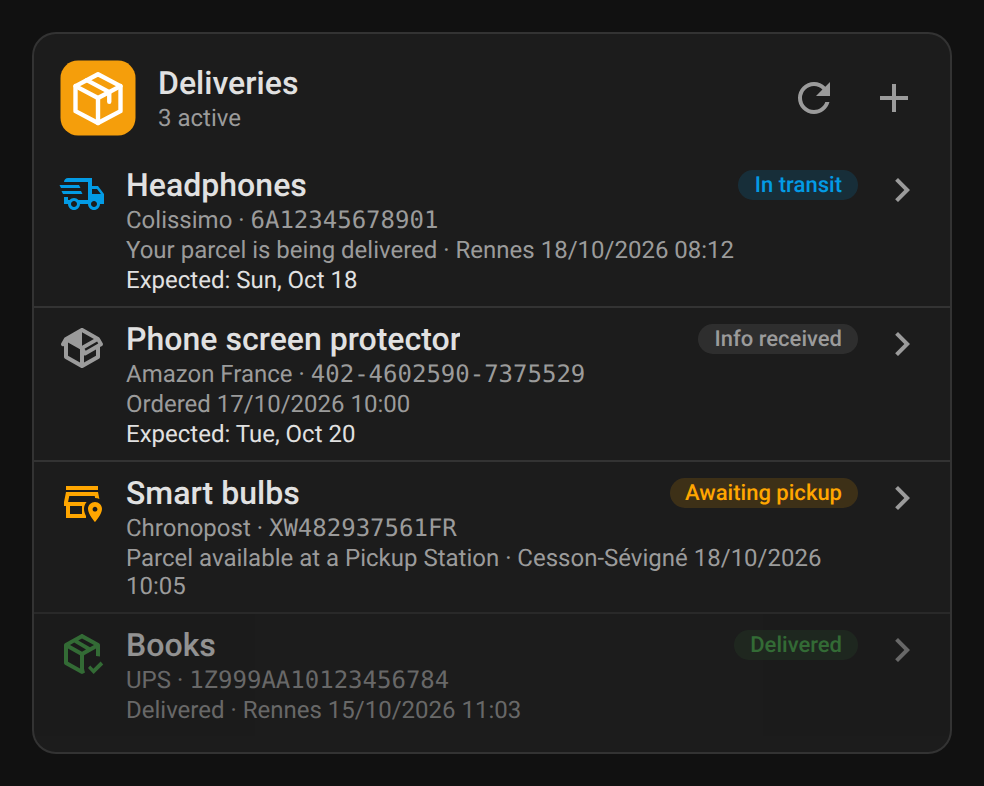
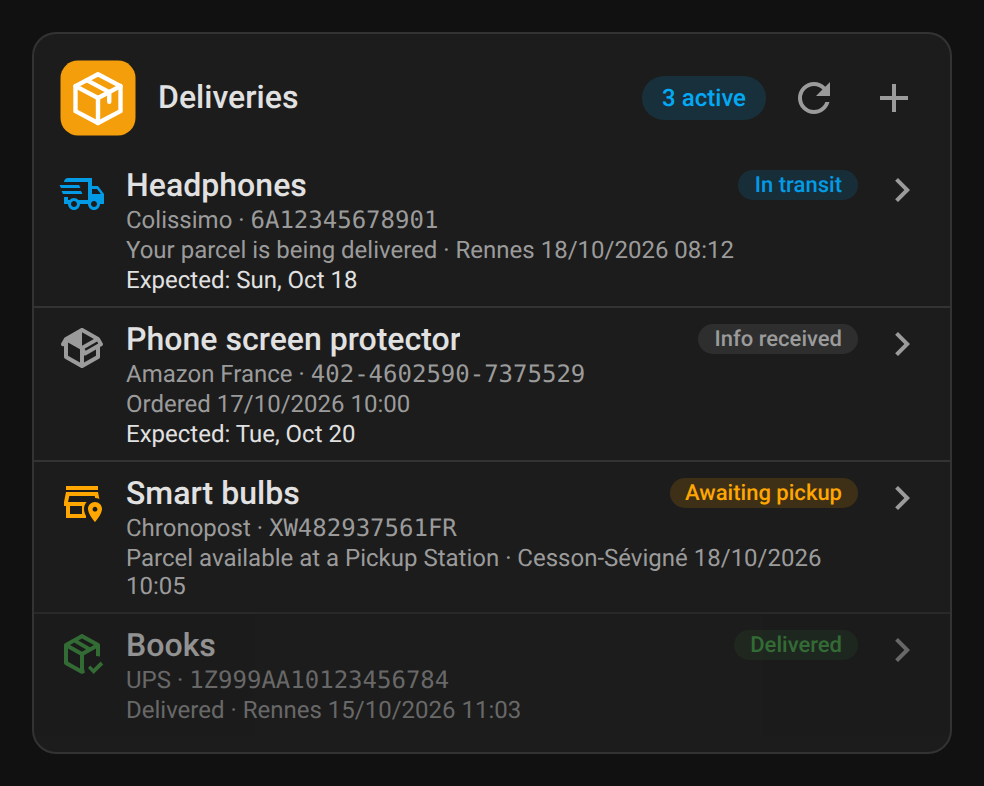
Review pass 2 fixes + release 0.10.0 (#21)
Review pass 2 fixes for ha-parcel, plus release 0.10.0 (minor: new card
`language` option).

## Fixed

### 🔴 Bugs
- **`parcel.refresh` reported success on a failed update**:
`async_refresh()` never raises, so a 429, a timeout or a refused key all
looked like a success. The service now raises `HomeAssistantError` when
`last_update_success` is false, so the card's error line now appears.
Test added: `test_refresh_service_reports_failure` (429), which fails
without the fix.
- **Card when the sensor is unavailable**: when `state` is `unavailable`
or `unknown`, the card now shows a dedicated message (new `unavailable`
i18n key in en/fr/de/es) with no count, instead of "unavailable active"
and "No deliveries to show". Automatic detection falls back to
`hass.entities` (`platform: parcel`), so a card with no `entity` set no
longer says "Parcel sensor not found" while the sensor is unavailable.
Optional chaining was added on `st.attributes?.config_entry_id`. Node
tests added.
- **`setConfig` reset `_lastState`**: `setConfig` now reads the sensor
right away when `hass` is already set, so the visual editor no longer
shows "not found". Node test added.

### 🟠 CI
- Screenshots: `pip install playwright==1.64.1` is pinned (README too).
The Chromium download now runs in its own step with `timeout 180`, 3
retries and an explicit failure.

### 🟡 Consistency
- Card `language` option (en/fr/de/es, "Auto" by default). It is in the
[…]

Changed region(s): [[0.1524, 0.0916, 0.3049, 0.1832], [0.6402, 0.0916, 0.7927, 0.1527]]

diff --git a/custom_components/parcel/frontend/parcel-card.js b/custom_components/parcel/frontend/parcel-card.js
@@ -1,4 +1,4 @@
-var PARCEL_CARD_VERSION = '0.9.0';
+var PARCEL_CARD_VERSION = '0.10.0';
 
 // ── Integration icon (same drawing as brand/icon.png) ────────────────────────
[1 lines of base64/hex data omitted]
@@ -9,6 +9,7 @@ var ParcelI18n = {
     default_title: 'Colis',
     empty: 'Aucun colis à afficher',
     no_entity: 'Capteur Parcel introuvable. Ajoutez l\'intégration Parcel ou renseignez « entity ».',
+    unavailable: 'Parcel est indisponible. Les colis s\'afficheront après la prochaine mise à jour réussie.',
     in_progress: 'en cours',
     expected: 'Prévu :',
     add: 'Ajouter un colis',
@@ -36,6 +37,8 @@ var ParcelI18n = {
       show_add: 'Afficher le bouton d\'ajout',
       show_refresh: 'Afficher le bouton Actualiser',
       max_events: 'Événements affichés quand un colis est déplié',
+      language: 'Langue',
+      lang_auto: 'Automatique',
     },
     status: {
       delivered: 'Livré',
@@ -54,6 +57,7 @@ var ParcelI18n = {
     default_title: 'Deliveries',
     empty: 'No deliveries to show',
     no_entity: 'Parcel sensor not found. Add the Parcel integration or set "entity".',
+    unavailable: 'Parcel is unavailable. The deliveries will show up after the next successful update.',
     in_progress: 'active',
     expected: 'Expected:',
     add: 'Add a delivery',
@@ -81,6 +85,8 @@ var ParcelI18n = {
       show_add: 'Show add button',
       show_refresh: 'Show refresh button',
       max_events: 'Events shown when a parcel is expanded',
+      language: 'Language',
+      lang_auto: 'Auto',
     },
     status: {
       delivered: 'Delivered',
@@ -99,6 +105,7 @@ var ParcelI18n = {
     default_title: 'Sendungen',
     empty: 'Keine Sendungen vorhanden',
     no_entity: 'Parcel-Sensor nicht gefunden. Füge die Parcel-Integration hinzu oder setze „entity“.',
+    unavailable: 'Parcel ist nicht verfügbar. Die Sendungen erscheinen nach der nächsten erfolgreichen Aktualisierung.',
     in_progress: 'aktiv',
     expected: 'Erwartet:',
     add: 'Sendung hinzufügen',
@@ -115,7 +122,7 @@ var ParcelI18n = {
     added: 'Sendung hinzugefügt. Sie erscheint nach der nächsten Aktualisierung von Parcel.',
     unknown_carrier: 'Wähle einen Versanddienstleister aus der Liste.',
     required: 'Sendungsnummer, Versanddienstleister und Beschreibung sind erforderlich.',
-    limit: 'Parcel erlaubt 20 Hinzufügungen pro Tag.',
+    limit: 'Parcel erlaubt maximal 20 neue Sendungen pro Tag.',
     no_events: 'Noch keine Ereignisse',
     copy: 'Sendungsnummer kopieren',
     editor: {
@@ -126,6 +133,8 @@ var ParcelI18n = {
       show_add: 'Schaltfläche „Hinzufügen“ anzeigen',
       show_refresh: 'Schaltfläche „Aktualisieren“ anzeigen',
       max_events: 'Angezeigte Ereignisse bei aufgeklappter Sendung',
+      language: 'Sprache',
+      lang_auto: 'Automatisch',
     },
     status: {
       delivered: 'Zugestellt',
@@ -134,7 +143,7 @@ var ParcelI18n = {
       awaiting_pickup: 'Zur Abholung bereit',
       out_for_delivery: 'In Zustellung',
       not_found: 'Nicht gefunden',
-      failed_attempt: 'Zustellversuch fehlgeschlagen',
+      failed_attempt: 'Fehlversuch',
       exception: 'Problem',
       info_received: 'Angekündigt',
       unknown: 'Unbekannt',
@@ -144,6 +153,7 @@ var ParcelI18n = {
     default_title: 'Envíos',
     empty: 'No hay envíos que mostrar',
     no_entity: 'No se encuentra el sensor de Parcel. Añade la integración Parcel o indica «entity».',
+    unavailable: 'Parcel no está disponible. Los envíos aparecerán tras la próxima actualización correcta.',
     in_progress: 'en curso',
     expected: 'Previsto:',
     add: 'Añadir un envío',
@@ -171,6 +181,8 @@ var ParcelI18n = {
       show_add: 'Mostrar el botón Añadir',
       show_refresh: 'Mostrar el botón Actualizar',
       max_events: 'Eventos mostrados al desplegar un envío',
+      language: 'Idioma',
+      lang_auto: 'Automático',
     },
     status: {
       delivered: 'Entregado',
@@ -212,8 +224,9 @@ function parcelDate(s) {
   return /\d/.test(String(s || '')) ? String(s) : '';
 }
 
-function parcelLang(hass) {
-  var lang = ((hass && (hass.locale?.language || hass.language)) || navigator.language || 'en').slice(0, 2);
+// The card's `language` option wins over the Home Assistant language.
+function parcelLang(hass, config) {
+  var lang = (config?.language || (hass && (hass.locale?.language || hass.language)) || navigator.language || 'en').slice(0, 2);
   return ParcelI18n[lang] ? lang : 'en';
 }
 
@@ -237,13 +250,22 @@ class ParcelCard extends HTMLElement {
         return ids[i];
       }
     }
+    // An unavailable sensor (failed update) has no attributes: fall back to the entity registry.
+    var entities = hass.entities || {};
+    var reg = Object.keys(entities);
+    for (var j = 0; j < reg.length; j++) {
+      if (reg[j].indexOf('sensor.') === 0 && entities[reg[j]].platform === 'parcel' && hass.states[reg[j]]) return reg[j];
+    }
     return null;
   }
 
   setConfig(config) {
     this._config = Object.assign({}, PARCEL_DEFAULTS, config || {});
     this._expanded = this._expanded || {};
-    this._lastState = null;
+    // Read the sensor now: with hass already set (visual editor, dashboard change), waiting for the
+    // next hass update would show "sensor not found" meanwhile.
+    var entityId = this._hass ? this._entityId() : null;
+    this._lastState = entityId ? this._hass.states[entityId] || null : null;
     if (this._hass) this._render();
   }
 
@@ -302,7 +324,7 @@ class ParcelCard extends HTMLElement {
   }
 
   _t() {
-    return ParcelI18n[parcelLang(this._hass)];
+    return ParcelI18n[parcelLang(this._hass, this._config)];
   }
 
   _ensureShell() {
@@ -329,7 +351,10 @@ class ParcelCard extends HTMLElement {
       return;
     }
 
-    var deliveries = (st.attributes.deliveries || []).slice();
+    // A failed update (rate limit, Parcel down) leaves the sensor unavailable, without its attributes:
+    // say so instead of showing "unavailable active" and an empty list.
+    var unavailable = st.state === 'unavailable' || st.state === 'unknown';
+    var deliveries = (st.attributes?.deliveries || []).slice();
     if (!this._config.show_delivered) {
       deliveries = deliveries.filter((d) => d.status_code !== 0);
     }
@@ -344,11 +369,12 @@ class ParcelCard extends HTMLElement {
 
     header.innerHTML =
       '<div class="title">' + this._iconHtml() + '<div class="titles"><div class="name">' + parcelEsc(title) + '</div>' +
-      '<div class="sub">' + parcelEsc(st.state) + ' ' + parcelEsc(t.in_progress) + '</div>' +
       // The refresh error survives re-renders (hass updates) until the next refresh attempt.
       (this._refreshError ? '<div class="sub error">' + parcelEsc(this._refreshError) + '</div>' : '') +
       '</div></div>' +
       '<div class="buttons">' +
+      // Status pill on the right of the header (card convention), not a subtitle under the title.
+      (unavailable ? '' : `<span class="status">${parcelEsc(st.state)} ${parcelEsc(t.in_progress)}</span>`) +
       (this._config.show_refresh
         ? `<ha-icon-button class="refresh-btn${this._refreshing ? ' spinning' : ''}" label="${parcelEsc(t.refresh)}" title="${parcelEsc(t.refresh)}"><ha-icon icon="mdi:refresh"></ha-icon></ha-icon-button>`
         : '') +
@@ -361,6 +387,10 @@ class ParcelCard extends HTMLElement {
     var refreshBtn = header.querySelector('.refresh-btn');
     if (refreshBtn) refreshBtn.addEventListener('click', this._refresh.bind(this));
 
+    if (unavailable) {
+      list.innerHTML = `<div class="empty">${parcelEsc(t.unavailable)}</div>`;
+      return;
+    }
     if (!deliveries.length) {
       list.innerHTML = `<div class="empty">${parcelEsc(t.empty)}</div>`;
       return;
@@ -413,7 +443,7 @@ class ParcelCard extends HTMLElement {
   }
 
   _formatExpected(d) {
-    var locale = (this._hass.locale?.language) || undefined;
+    var locale = this._config?.language || this._hass.locale?.language || undefined;
     var opts = { weekday: 'short', day: 'numeric', month: 'short' };
     var fmt = (ts, raw) => {
       if (ts) return new Date(ts * 1000).toLocaleString(locale, Object.assign({ hour: '2-digit', minute: '2-digit' }, opts));
@@ -446,7 +476,7 @@ class ParcelCard extends HTMLElement {
     if (this._refreshing) return;
     var data = {};
     var st = this._lastState;
-    if (st?.attributes.config_entry_id) data.config_entry_id = st.attributes.config_entry_id;
+    if (st?.attributes?.config_entry_id) data.config_entry_id = st.attributes.config_entry_id;
     this._refreshing = true;
     this._refreshError = null;
     this._render();
@@ -498,7 +528,7 @@ class ParcelCard extends HTMLElement {
     this._loadingCarriers = true;
     var st = this._lastState;
     var msg = { type: 'parcel/carriers' };
-    if (st?.attributes.config_entry_id) msg.config_entry_id = st.attributes.config_entry_id;
+    if (st?.attributes?.config_entry_id) msg.config_entry_id = st.attributes.config_entry_id;
     this._hass.callWS(msg).then((res) => {
       var carriers = res.carriers || {};
       // An empty list means the backend couldn't load the carriers yet: don't cache it, the next opening asks again.
@@ -551,7 +581,7 @@ class ParcelCard extends HTMLElement {
 
     var data = { tracking_number: tracking, carrier_code: code, description: description, send_push_confirmation: push };
     var st = this._lastState;
-    if (st?.attributes.config_entry_id) data.config_entry_id = st.attributes.config_entry_id;
+    if (st?.attributes?.config_entry_id) data.config_entry_id = st.attributes.config_entry_id;
 
     btn.disabled = true;
     btn.textContent = t.adding;
@@ -582,7 +612,9 @@ class ParcelCard extends HTMLElement {
       '.name { font-size: 16px; font-weight: 500; line-height: 1.25; color: var(--primary-text-color); white-space: nowrap; overflow: hidden; text-overflow: ellipsis; }',
       '.sub { font-size: 12px; color: var(--secondary-text-color); white-space: nowrap; overflow: hidden; text-overflow: ellipsis; }',
       '.sub.error { color: var(--error-color, #db4437); }',
-      '.buttons { display: flex; align-items: center; }',
+      '.buttons { display: flex; align-items: center; flex: none; }',
+      '.status { font-size: 12px; font-weight: 500; line-height: 1; white-space: nowrap; border-radius: 12px; padding: 5px 10px; margin-right: 4px;' +
+        ' color: var(--primary-color); background: color-mix(in srgb, var(--primary-color) 15%, transparent); }',
       '.refresh-btn.spinning ha-icon { animation: parcel-spin 1s linear infinite; }',
       '@keyframes parcel-spin { from { transform: rotate(0deg); } to { transform: rotate(360deg); } }',
       '.empty { padding: 12px 16px; color: var(--secondary-text-color); }',
@@ -625,21 +657,38 @@ class ParcelCard extends HTMLElement {
 }
 
 // ── parcel-card-editor ────────────────────────────────────────────────────────
-var PARCEL_EDITOR_SCHEMA = [
-  { name: 'entity', selector: { entity: { domain: 'sensor', integration: 'parcel' } } },
-  { name: 'title', selector: { text: {} } },
-  {
-    type: 'grid',
-    name: '',
-    schema: [
-      { name: 'show_icon', selector: { boolean: {} } },
-      { name: 'show_delivered', selector: { boolean: {} } },
-      { name: 'show_refresh', selector: { boolean: {} } },
-      { name: 'show_add', selector: { boolean: {} } },
-    ],
-  },
-  { name: 'max_events', selector: { number: { min: 1, max: 20, mode: 'box' } } },
-];
+function parcelEditorSchema(t) {
+  return [
+    { name: 'entity', selector: { entity: { domain: 'sensor', integration: 'parcel' } } },
+    { name: 'title', selector: { text: {} } },
+    {
+      type: 'grid',
+      name: '',
+      schema: [
+        { name: 'show_icon', selector: { boolean: {} } },
+        { name: 'show_delivered', selector: { boolean: {} } },
+        { name: 'show_refresh', selector: { boolean: {} } },
+        { name: 'show_add', selector: { boolean: {} } },
+      ],
+    },
+    { name: 'max_events', selector: { number: { min: 1, max: 20, mode: 'box' } } },
+    {
+      name: 'language',
+      selector: {
+        select: {
+          mode: 'dropdown',
+          options: [
+            { value: '', label: t.lang_auto },
+            { value: 'en', label: 'English' },
+            { value: 'fr', label: 'Français' },
+            { value: 'de', label: 'Deutsch' },
+            { value: 'es', label: 'Español' },
+          ],
+        },
+      },
+    },
+  ];
+}
 
 class ParcelCardEditor extends HTMLElement {
   setConfig(config) {
@@ -656,12 +705,17 @@ class ParcelCardEditor extends HTMLElement {
   _render() {
     if (!this._hass || !this._config) return;
     if (!this._form) {
-      var t = ParcelI18n[parcelLang(this._hass)].editor;
       this._form = document.createElement('ha-form');
-      this._form.schema = PARCEL_EDITOR_SCHEMA;
-      this._form.computeLabel = (field) => t[field.name] || field.name;
       this._form.addEventListener('value-changed', this._valueChanged.bind(this));
       this.appendChild(this._form);
+    }
+    // The labels follow the language picked in the editor: rebuilt only when it changes.
+    var lang = parcelLang(this._hass, this._config);
+    if (lang !== this._lang) {
+      this._lang = lang;
+      var t = ParcelI18n[lang].editor;
+      this._form.schema = parcelEditorSchema(t);
+      this._form.computeLabel = (field) => t[field.name] || field.name;
     }
     this._form.hass = this._hass;
     // Show the defaults as set, so the toggles match what the card does.
@@ -676,6 +730,7 @@ class ParcelCardEditor extends HTMLElement {
     });
     if (!value.title) delete value.title;
     if (!value.entity) delete value.entity;
+    if (!value.language) delete value.language;
     this._config = value;
     this.dispatchEvent(new CustomEvent('config-changed', { detail: { config: value }, bubbles: true, composed: true }));
   }

diff --git a/custom_components/parcel/__init__.py b/custom_components/parcel/__init__.py
@@ -86,7 +86,11 @@ async def async_setup(hass: HomeAssistant, config: ConfigType) -> bool:
     async def refresh(call: ServiceCall) -> None:
         # async_refresh (not async_request_refresh): the service returns once the
         # data is actually fetched, so the card's spinner matches the update.
-        await _get_coordinator(hass, call.data.get(ATTR_CONFIG_ENTRY_ID)).async_refresh()
+        coordinator = _get_coordinator(hass, call.data.get(ATTR_CONFIG_ENTRY_ID))
+        await coordinator.async_refresh()
+        # async_refresh never raises: report a failed update (rate limit, timeout, refused key) to the caller.
+        if not coordinator.last_update_success:
+            raise HomeAssistantError(f"Parcel: {coordinator.last_exception}")
 
     hass.services.async_register(DOMAIN, SERVICE_ADD_DELIVERY, add_delivery, ADD_DELIVERY_SCHEMA)
     hass.services.async_register(DOMAIN, SERVICE_REFRESH, refresh, REFRESH_SCHEMA)

diff --git a/tests/test_init.py b/tests/test_init.py
@@ -280,6 +280,15 @@ async def test_refresh_service(hass, aioclient_mock, entry):
     assert after == before + 1
 
 
+async def test_refresh_service_reports_failure(hass, aioclient_mock, entry):
+    """A failed update (here HTTP 429) makes the service call fail, so the card can show it."""
+    await _setup(hass, aioclient_mock, entry)
+    aioclient_mock.clear_requests()
+    aioclient_mock.get(API_DELIVERIES, status=429, json={"success": False})
+    with pytest.raises(HomeAssistantError, match="rate limit"):
+        await hass.services.async_call(DOMAIN, "refresh", {"config_entry_id": entry.entry_id}, blocking=True)
+
+
 async def test_reauth_confirm(hass, aioclient_mock, entry):
     """A refused key is shown as invalid_auth; a valid one updates the entry and reloads it."""
     await _setup(hass, aioclient_mock, entry)

diff --git a/custom_components/parcel/AGENT.md b/custom_components/parcel/AGENT.md
@@ -28,6 +28,8 @@ custom_components/parcel/
 ## Card
 - Served from the `/parcel_static` static path and added to the Lovelace resources collection at startup (like ha-zoraxy), URL versioned with the file's md5. Falls back to `add_extra_js_url` when resources are in YAML mode. `_lovelace_resources()` reads `hass.data["lovelace"]` as a dict (before 2025.2) or a dataclass (`mode`, then `resource_mode` from 2026.2).
 - Reads `sensor.*` with `deliveries` and `config_entry_id` attributes; adds via `parcel.add_delivery`, carriers via websocket `parcel/carriers`.
+- An unavailable sensor (failed update) has no attributes: the card then shows a dedicated message, and finds the sensor through `hass.entities` (`platform: parcel`). `parcel.refresh` raises when the update fails (`async_refresh` itself never raises), which the card shows under the title.
+- Language: the card's `language` option, else Home Assistant's.
 
 ## Release
 HACS downloads the repository itself (no `zip_release`). Before tagging `vX.Y.Z`, bump the version in manifest.json and `PARCEL_CARD_VERSION` in the card (the card URL is versioned with the file's md5, not with the version). Pushing to main publishes release `vX.Y.Z` (tag, generated notes, `parcel.zip`) when that tag doesn't exist yet; the workflow fails if the two versions differ. Tags can't be pushed from Claude sessions, hence this flow. Release notes come from the version's CHANGELOG.md section; rerun them on an existing release with the "Update release notes" workflow (input `tag`).

diff --git a/CHANGELOG.md b/CHANGELOG.md
@@ -1,5 +1,22 @@
 # Changelog
 
+## 0.10.0
+
+### Changes
+- Card: new `language` option (also in the visual editor) to force English, French, German or Spanish instead of the Home Assistant language.
+- Card: the active delivery count is now a status pill on the right of the header instead of a subtitle under the title.
+
+### Fixes
+- `parcel.refresh` now fails when the update fails (rate limit, timeout, refused key), so the card shows the error under its title instead of silently succeeding.
+- Card: when the Parcel sensor is unavailable after a failed update, the card says so instead of showing "unavailable active" and "No deliveries to show", and it still finds the sensor without `entity` set.
+- Card: editing the card in the visual editor no longer shows "Parcel sensor not found" until the next state update.
+- German: clearer "Kürzlich" filter option, shorter "Fehlversuch" status chip and a more natural daily limit wording.
+
+### Maintenance
+- Screenshots workflow: fork-safe checkout, Playwright pinned to 1.64.1, retried Chromium download and explicit failure after three apt attempts.
+- Branch cleanup workflow: skipped for closed fork pull requests.
+- Screenshots workflow: after pushing a screenshot commit, it re-runs the Lint, Validate and HACS checks on it through `workflow_dispatch` (a push made with `GITHUB_TOKEN` starts no `pull_request` run).
+
 ## 0.9.0
 
 ### Changes

diff --git a/README.md b/README.md
@@ -84,6 +84,7 @@ type: custom:parcel-card
 | `show_add` | `true` | Show the add button |
 | `show_refresh` | `true` | Show the refresh button (counts towards the 20 requests per hour) |
 | `max_events` | `5` | Number of events shown when a delivery is expanded |
+| `language` | Auto | Force language: `en`, `fr`, `de` or `es` (auto-detects from HA settings) |
 
 Click a delivery to see its events, and the tracking number to copy it.
 
@@ -132,7 +133,7 @@ The integration polls the Parcel API at the update interval and exposes the deli
 
 ```bash
 pip install -r requirements_test.txt && pytest
-pip install playwright && playwright install chromium
+pip install playwright==1.64.1 && playwright install chromium
 python scripts/screenshots.py   # renders the card stills and the refreshing.gif animation (needs ffmpeg) into screenshots/
 ```
 
@@ -146,7 +147,7 @@ Python tests live in `tests/` (pytest); the card's JavaScript tests live in `tes
 
 ## Translations
 
-The integration and the card follow the language of Home Assistant. Currently supported:
+The integration and the card follow the language of Home Assistant (the card's `language` option can force another one). Currently supported:
 
 | Language | Code |
 |---|---|
